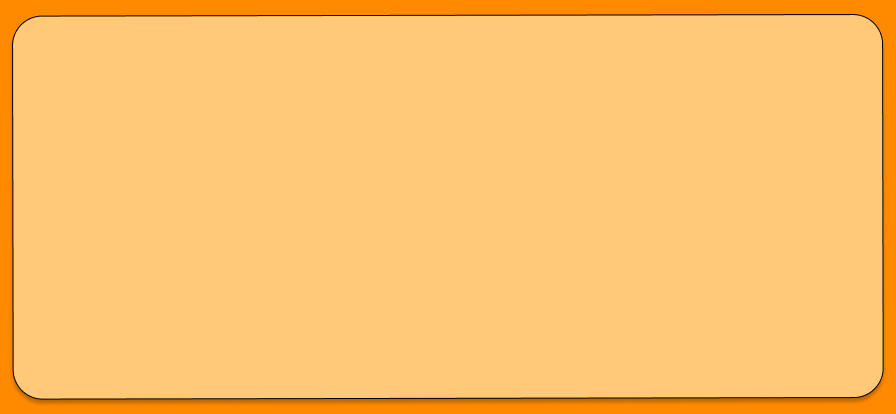
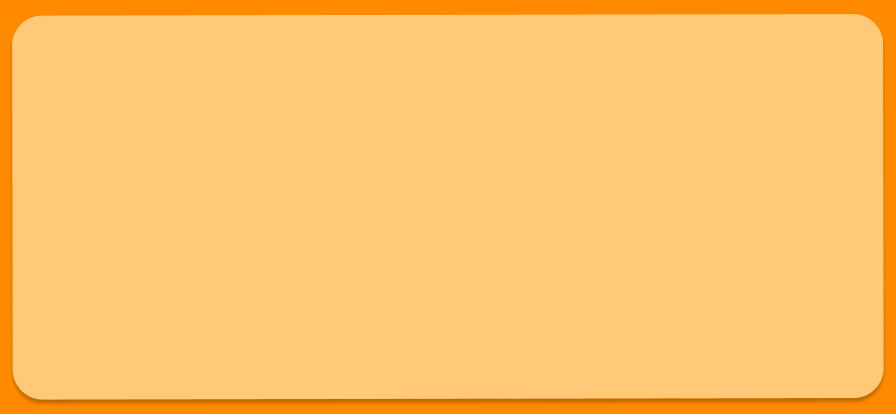
Created a component to be the background default rectangles

diff --git a/screens/GetStartedScreen.js b/screens/GetStartedScreen.js
@@ -1,26 +1,23 @@
 import React from "react";
 import { StatusBar } from "expo-status-bar";
 import {
-  Text,
   View,
   StyleSheet,
-  ImageBackground,
   SafeAreaView,
 } from "react-native";
 
-import DefaultTitleText from '../components/DefaultTitleText';
+import Color from '../constants/colors';
+import ViewBackground from '../components/ViewBackground';
+import DefaultTitleText from "../components/DefaultTitleText";
 
 const GetStartedScreen = ({ params }) => (
-  <SafeAreaView style={styles.container}>
+  <ViewBackground style={styles.container}>
     <StatusBar hidden />
-    <ImageBackground
-      source={require("../assets/images/backgroundImage.png")}
-      style={styles.image}
-    >
-        <View>
-      <DefaultTitleText style={styles.text}>Find the Number!</DefaultTitleText></View>
-    </ImageBackground>
-  </SafeAreaView>
+    
+    <View>
+      <DefaultTitleText style={styles.text}>Find the Number!</DefaultTitleText>
+    </View>
+  </ViewBackground>
 );
 
 const styles = StyleSheet.create({
@@ -29,7 +26,7 @@ const styles = StyleSheet.create({
   },
   image: {
     flex: 1,
-    padding:10,
+    padding: 10,
     resizeMode: "contain",
     justifyContent: "center",
   },

diff --git a/components/ViewBackground.js b/components/ViewBackground.js
@@ -1,0 +1,36 @@
+import React from "react";
+import { View, StyleSheet } from "react-native";
+
+import Color from "../constants/colors";
+
+/*===============================================
+= DefaultTitleText will replace the <Text> with the applied
+= custom fonts for all Title texts
+=============================================== */
+const ViewBackground = (props) => (
+  <View style={{ ...styles.container, ...props.style }}>
+    <View style={{ ...styles.body, ...props.style }}>{props.children}</View>
+  </View>
+);
+
+const styles = StyleSheet.create({
+  container: {
+    flex: 1,
+    backgroundColor: Color.primary,
+  },
+  body: {
+    flex: 1,
+    backgroundColor: Color.accent,
+    margin: 10,
+    borderRadius: 20,
+    // Shadow props iOS only
+    shadowColor: "black",
+    shadowOffset: { width: 0, height: 2 },
+    shadowRadius: 6,
+    shadowOpacity: 0.3,
+    // Elevation props Android only
+    elevation: 8,
+  },
+});
+
+export default ViewBackground;
